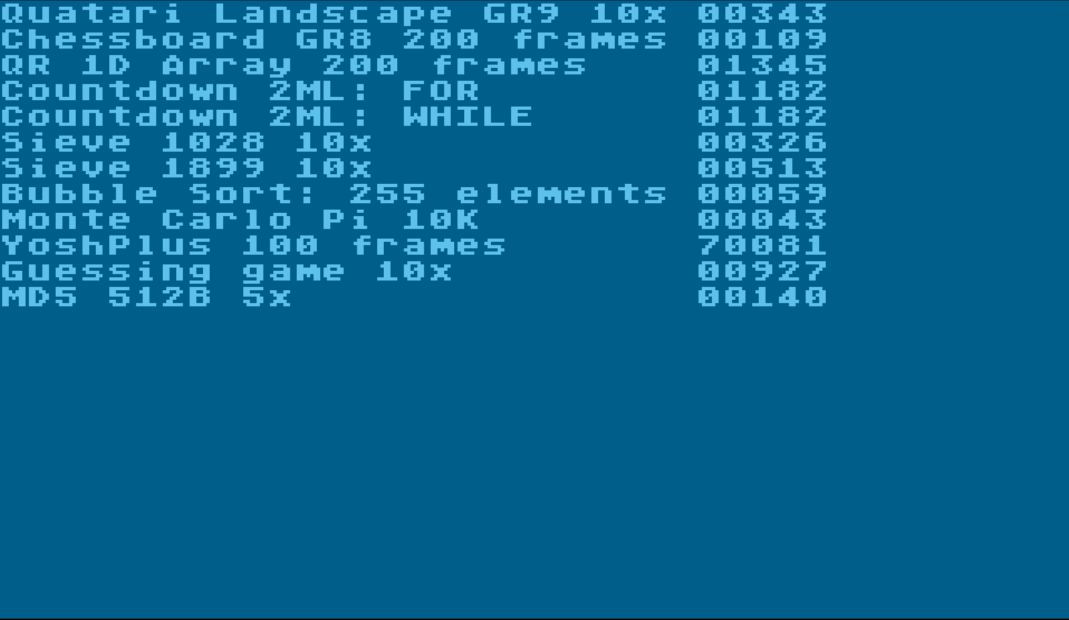
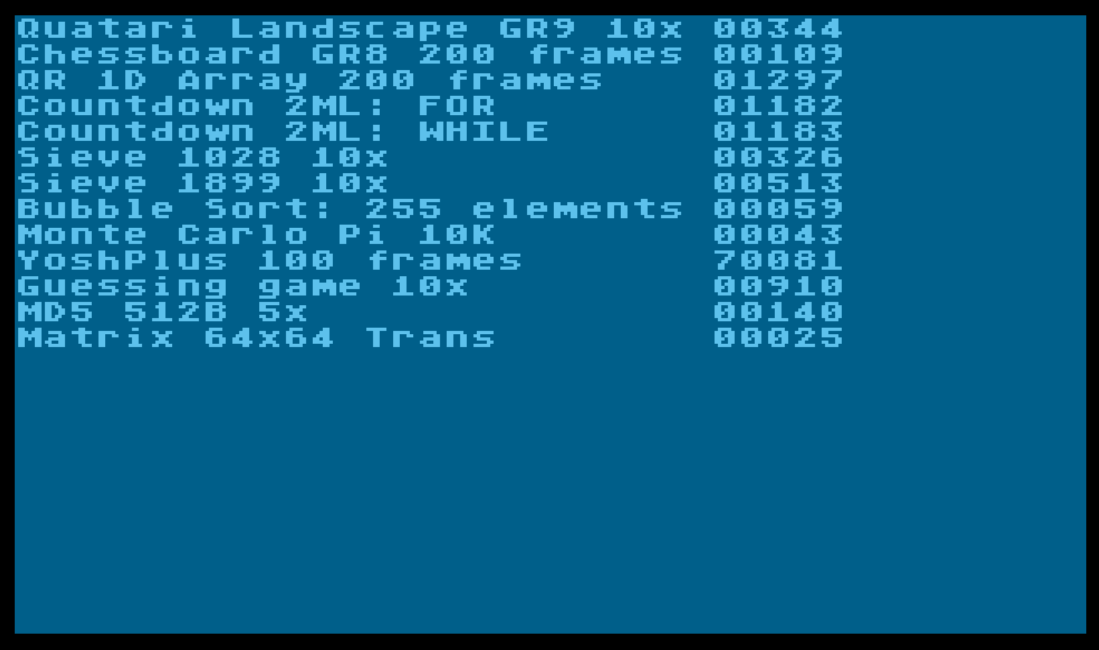
Add matrix transpose benchmark

Changed region(s): [[0.0, 0.0, 1.0, 1.0], [0.3396, 0.4903, 0.463, 0.5516]]

diff --git a/src/matrixTrans.c b/src/matrixTrans.c
@@ -1,0 +1,44 @@
+#pragma target(atarixl)
+#pragma encoding(atascii)
+#pragma zp_reserve(0x00..0x7f)
+
+#include <stdint.h>
+#include <stdlib.h>
+#include "atari-system.h"
+#include "counter.h"
+#include "gr.h"
+#include "matrixTrans.h"
+
+// 2D matrix transpose, done with 1D arrays as kickc doesn't have 2D, but we can emulate them.
+
+void runMatrix() {
+	memset(lms, 0, 0x1ff0);
+	prepareCounter("Matrix 64x64 Trans");
+
+	counterOn(1);
+	benchmarkMatrix();
+	counterOn(0);
+
+	waitFrames(10);
+	counterPrint();
+}
+
+void benchmarkMatrix() {
+	const uint8_t size = 64;
+	uint8_t * const A = 0xA000;
+	uint8_t * const B = 0xB000;
+	
+	for (uint8_t y = 0; y < size; y++) {
+		for (uint8_t x = 0; x < size; x++) {
+			uint16_t i = y * size + x; // emulate 2D array
+			*(A + i) = *RANDOM;
+		}
+	}
+	for (uint8_t y = 0; y < size; y++) {
+		for (uint8_t x = 0; x < size; x++) {
+			uint16_t i = y * size + x;
+			uint16_t j = x * size + y;
+			*(B + j) = *(A + i);
+		}
+	}
+}

diff --git a/src/suite.c b/src/suite.c
@@ -24,6 +24,7 @@
 #include "yoshplus.h"
 #include "guessing.h"
 #include "md5.h"
+#include "matrixTrans.h"
 
 void main() {
 	initSuite();
@@ -40,6 +41,7 @@ void main() {
 	runYoshplus();
 	runGuessing();
 	runMd5();
+	runMatrix();
 
 	// runLipsum();
 

diff --git a/src/md5.c b/src/md5.c
@@ -8,9 +8,6 @@
 #include <stdlib.h>
 #include <string.h>
 #include <stdint.h>
-#include <printf.h>
-#include <conio.h>
-#include <6502.h>
 
 void runMd5() {
 	memset(lms, 0, 0x1ff0);

diff --git a/src/matrixTrans.h b/src/matrixTrans.h
@@ -1,0 +1,1 @@
+void runMatrix();
